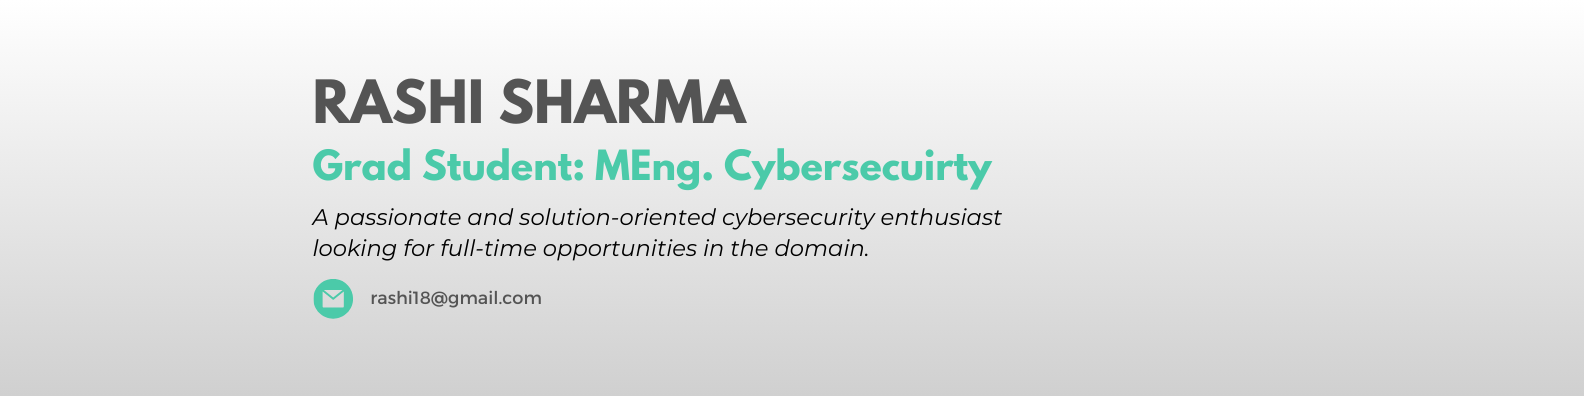
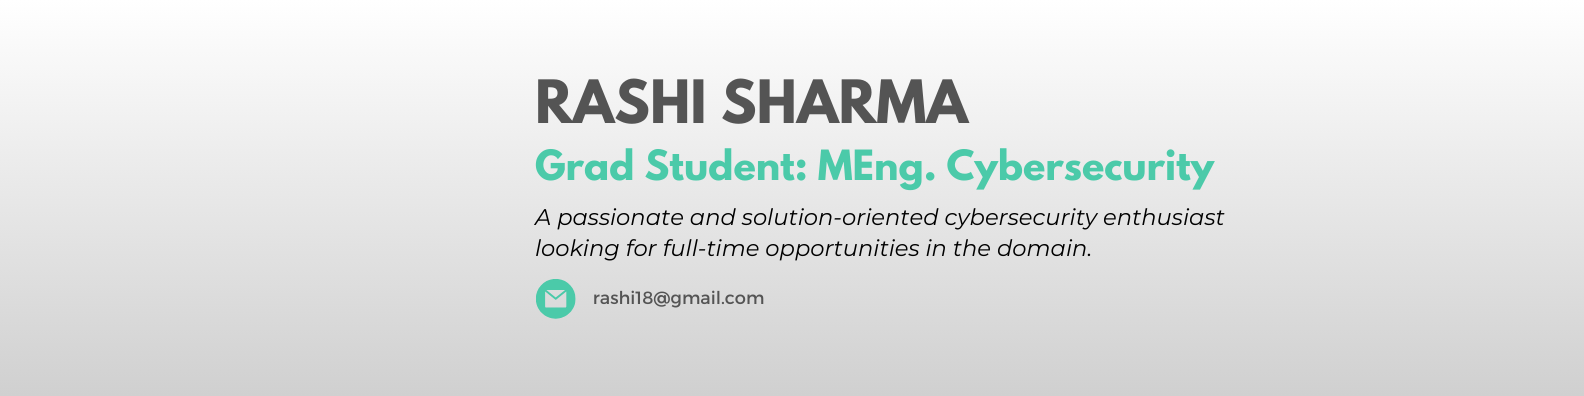
update_final_banner

diff --git a/index.html b/index.html
@@ -49,7 +49,7 @@
 
 						<!-- One -->
 							<section id="one">
-								<div class="image main" data-position="right">
+								<div class="image main" data-position="left">
 									<img src="images/banner.png" alt="" />
 								</div>
 								<div class="container">
